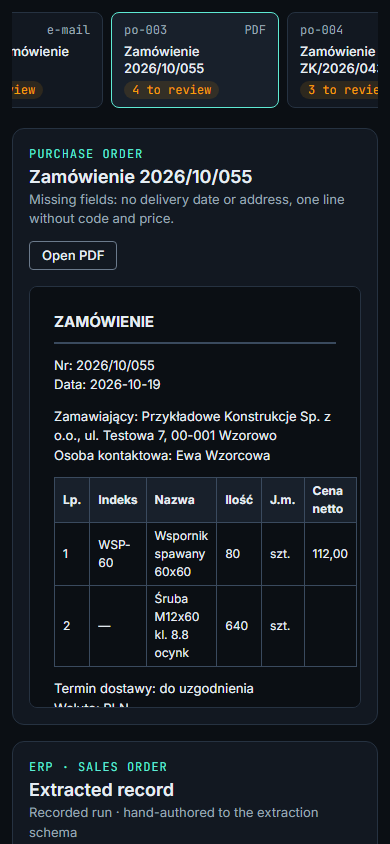
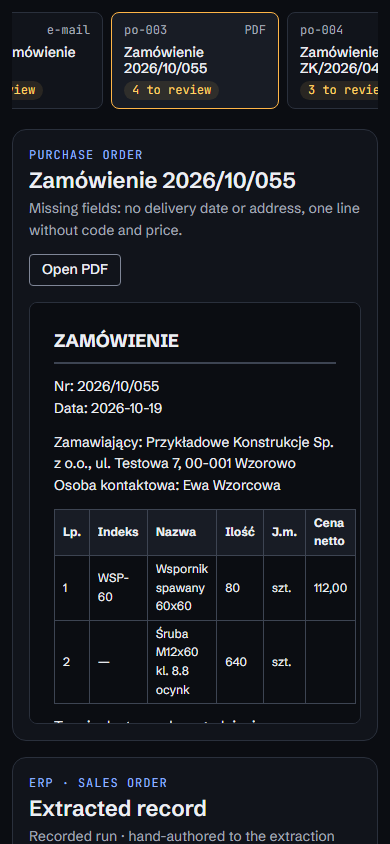
docs: refresh screenshots and document the brand integration

diff --git a/scripts/screenshots.ts b/scripts/screenshots.ts
@@ -47,6 +47,7 @@ async function main(): Promise<void> {
     await page.press('.field[data-path="payment_terms"] input', 'Enter');
     await page.click('.field[data-path="delivery_date"] .btn-approve');
     await page.click('.field[data-path="delivery_date"] .field-label');
+    await page.evaluate(() => window.scrollTo(0, 0));
     await page.waitForTimeout(400);
     await page.screenshot({ path: `${OUT}/human-decisions-po-002.png` });
 

diff --git a/README.md b/README.md
@@ -139,7 +139,7 @@ recordings/*.json ◄──────┘ (npm run record)        recorded mode
  domain/decisions.ts   human approve / correct → resolved values (flagged + undecided = null)
  domain/mapping.ts     resolved values → ERP records (JSON) → sheet rows
  domain/export.ts      CSV (RFC 4180, formula-injection safe) and XLSX (SheetJS)
- ui/                   vanilla TS + DOM; styles/tokens.css holds every brand value
+ ui/                   vanilla TS + DOM; styles/tokens.css + fonts.css = kokot.it brand
  live/                 request builder, extractor, /api/extract handler, Vite plugin (Node only)
 ```
 
@@ -185,10 +185,18 @@ Deploy `dist/` under any path (it uses relative URLs), then:
 
 `allow-downloads` is needed for the CSV/XLSX export, `allow-popups` for "Open PDF". The height
 message uses target origin `*` (it carries only a pixel height); tighten it to the site's origin
-when the case-study page exists. Fonts come
-from Google Fonts; all colours, fonts and spacing are CSS custom properties in
-[`src/styles/tokens.css`](src/styles/tokens.css), so the site's brand can replace them in one
-file.
+when the case-study page exists.
+
+### Brand
+
+The look is the kokot.it brand: [`src/styles/tokens.css`](src/styles/tokens.css) and
+[`src/styles/fonts.css`](src/styles/fonts.css) are copied verbatim from the kokot-it repo
+(`origin/next`), with this app's few extra tokens appended at the end of `tokens.css`. Schibsted
+Grotesk and JetBrains Mono are self-hosted from [`src/assets/fonts/`](src/assets/fonts) (SIL Open
+Font License, licence files next to the fonts) — no third-party font requests, so visitors' IPs
+go nowhere. The logo is `src/assets/brand/logo.svg`. To update the brand, copy those files again;
+`tests/tokens.test.ts` checks the brand values, that fonts are self-hosted, that no other
+stylesheet hard-codes colours or type, and WCAG AA contrast for every colour pairing the UI uses.
 
 ## Limitations
 
@@ -210,6 +218,4 @@ file.
 - An explicit approval stands even if a later correction elsewhere contradicts it.
 - A contradiction stated only in prose (po-004's remark "łącznie 1 000 szt." against 1200 in the
   table) is caught only if the model reports it; the deterministic rules cover fields, not prose.
-- Fonts load from Google Fonts, which sees each visitor's IP; self-host them for a privacy-strict
-  deployment.
 - Regenerated PDFs are not byte-identical (Chromium stamps a creation date); their text is.

diff --git a/docs/superpowers/decisions/T-11.md b/docs/superpowers/decisions/T-11.md
@@ -25,3 +25,6 @@
 - 2026-10-21 · spec · not fixed, stated as limitations: prose-only contradictions (po-004 remark) depend on the model; Google Fonts IP exposure (fonts were specified as Google Fonts); PDF regeneration is not byte-stable · self
 - 2026-10-21 · spec · after the second confidence check: a line quantity is re-checked against a corrected unit; a human correction that introduces a new cross-field contradiction is re-opened, while an explicit approval stands (a concession on an acceptance is a legitimate decision) · self
 - 2026-10-21 · spec · not fixed, stated as limitations: value-vs-quote comparison (a confident misreading backed by a real quote), flags that depend on model confidence, `review_log` keeps the model's proposal as an audit column, layout sizes (max widths, breakpoints) stay in app.css as layout, not brand tokens · self
+- 2026-10-22 · spec · kokot.it brand applied (orchestrator, D-041 context): `tokens.css` and `fonts.css` copied verbatim from kokot-it `origin/next` (1b53f1c) with app tokens appended at the end; fonts and OFL licences self-hosted in `src/assets/fonts/` (replaces Google Fonts, resolving the visitor-IP limitation); logo in header and "by kokot.it" footer · agreed with orchestrator
+- 2026-10-22 · spec · colour roles under the brand: Signal amber for primary actions, focus and the active tab; Ion for eyebrows; success mint for approved/corrected/ready; warning sun for needs-review; danger coral for contradictions — the old teal accent did double duty as "ok", which the brand gives to success · self
+- 2026-10-22 · standards · app.css now uses the brand's semantic names (`--color-surface-raised`, `--color-line*`, `--tracking-label`, `--leading-normal`); app-only tokens (`--color-border-input`, `*-soft`, `--color-highlight`, `--leading-none`, `--tracking-wide`) sit in a marked block at the end of tokens.css · self
